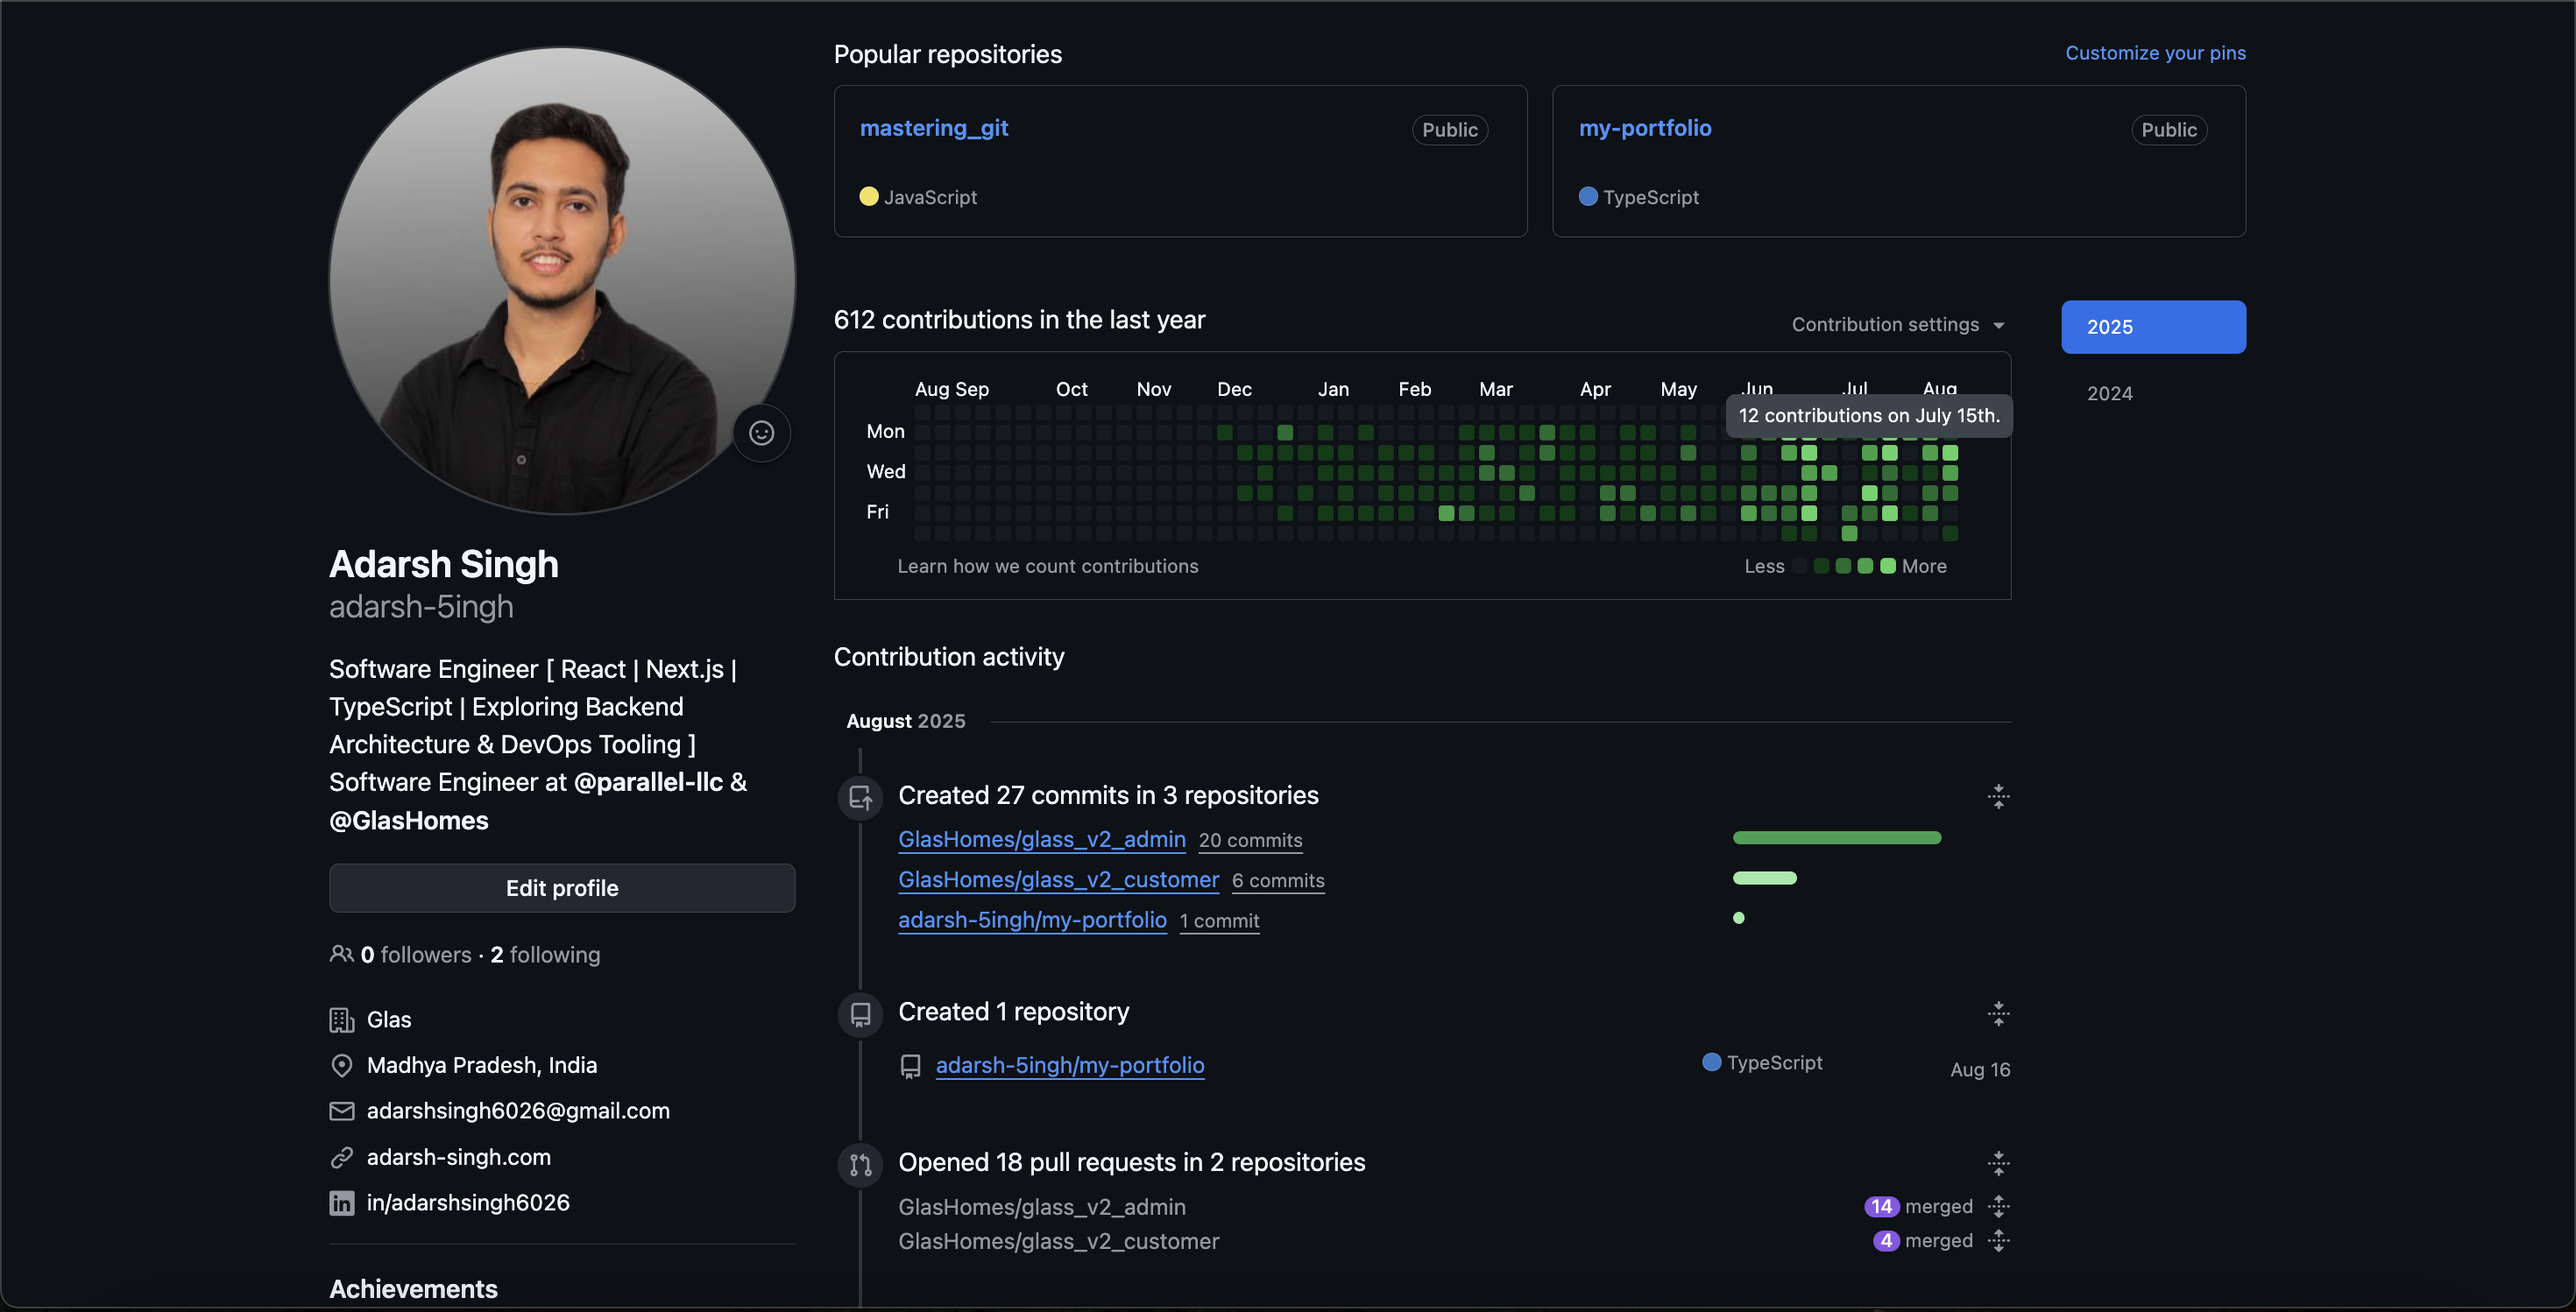
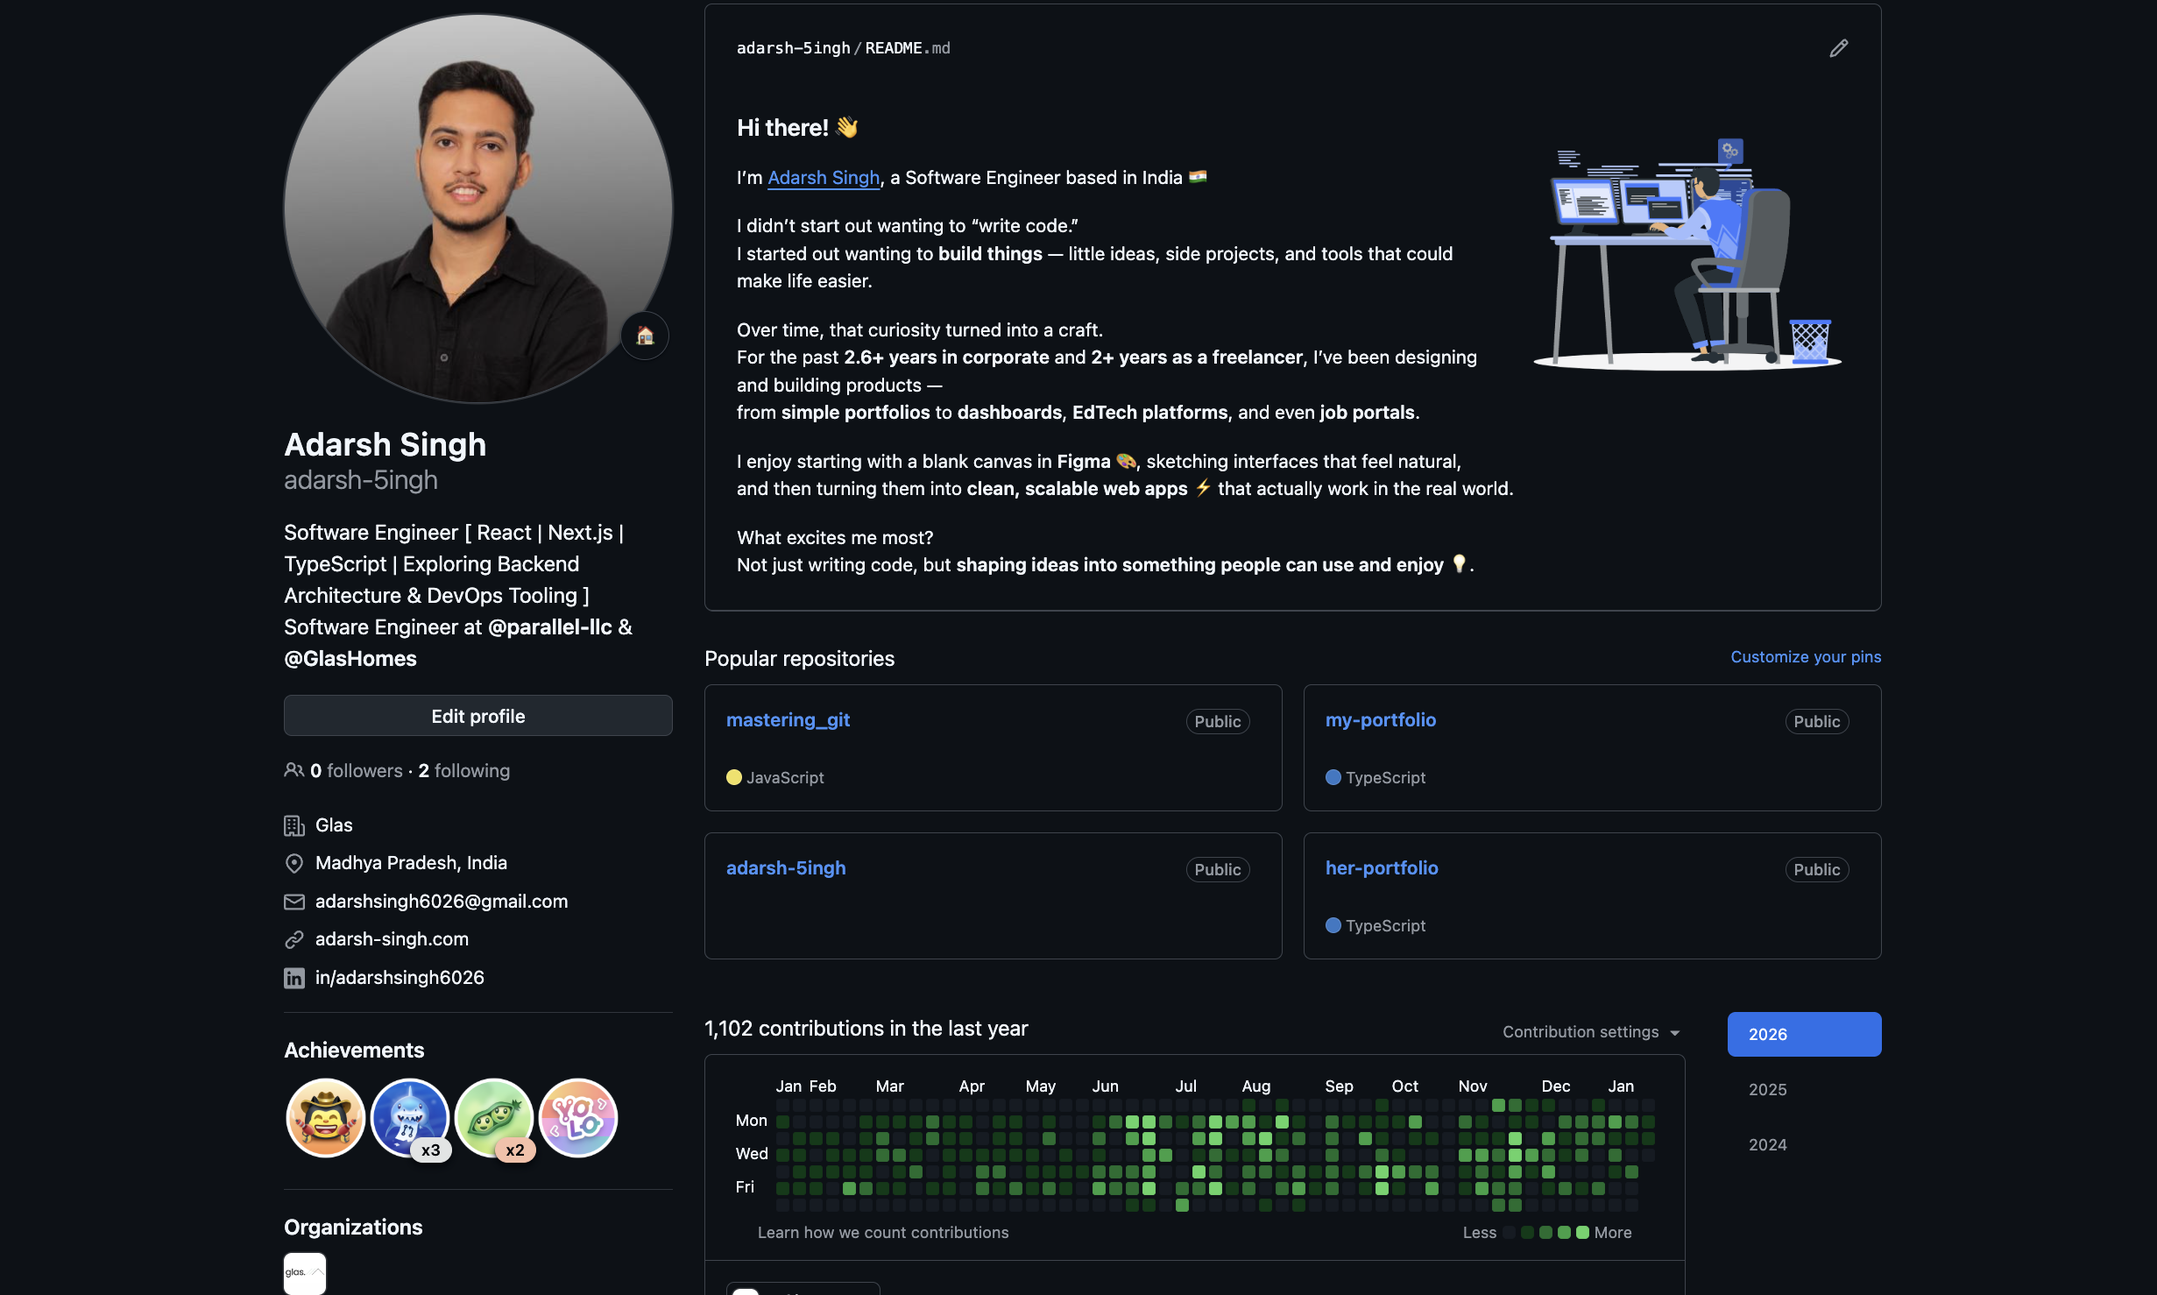
Bugs fixed

diff --git a/data/index.ts b/data/index.ts
@@ -165,9 +165,9 @@ export const navItems = [
       title: "Software Engineer",
       company: "Glas",
       time: "Dec 2024 - Present",
-      desc: "Next JS, TypeScript, Rect JS, GraphQL, Redux, AWS",
+      desc: "Next JS, TypeScript, Rect JS, Node JS, Express JS, Go, GraphQL, Redux, AWS",
       className: "md:col-span-2",
-      thumbnail: "https://media.licdn.com/dms/image/v2/D560BAQFKbsUE7w8V3g/company-logo_200_200/company-logo_200_200/0/1737826806711/glashomes_logo?e=1758153600&v=beta&t=uPS1VOl3b0qTCSd-48BRkeOKT85mMu_jzAnFhYiCJHM",
+      thumbnail: "/glashomes_logo.jpeg",
     },
 
     {
@@ -186,7 +186,7 @@ export const navItems = [
       time: "Jan 2023 - Jun 2023",
       desc: "React JS, Next JS, Jira, Figma, Tailwind, Bootstrap, MUI, HTML, CSS, Javascript",
       className: "md:col-span-2", // change to md:col-span-2
-      thumbnail: "https://media.licdn.com/dms/image/v2/C4D0BAQHIUtedkOSezQ/company-logo_200_200/company-logo_200_200/0/1672721826001/thedevstudio_logo?e=1758153600&v=beta&t=z_14glu_aPC4CIygsOGSfbZvUPv3NvXyUbEzjLfx-No",
+      thumbnail: "/thedevstudio_logo.jpeg",
     },
     // {
     //   id: 4,

diff --git a/components/ui/BentoGrid.tsx b/components/ui/BentoGrid.tsx
@@ -8,7 +8,7 @@ const BackgroundGradientAnimation = dynamic(
   { ssr: false }
 );
 
-const Lottie = dynamic(() => import("react-lottie"), { ssr: false });
+const Lottie = dynamic(() => import("lottie-react"), { ssr: false });
 
 import { GlobeDemo } from "./GridGlobe";
 import { useState } from "react";
@@ -150,14 +150,9 @@ export const BentoGridItem = ({
             <div className="mt-5 relative">
               <div className={`absolute -bottom-5 right-0`}>
                 <Lottie
-                  options={{
-                    loop: copied,
-                    autoplay: copied,
-                    animationData,
-                    rendererSettings: {
-                      preserveAspectRatio: "xMidYMid slice",
-                    },
-                  }}
+                  animationData={animationData}
+                  loop={copied}
+                  autoplay={copied}
                 />
               </div>
 

diff --git a/components/RecentProjects.tsx b/components/RecentProjects.tsx
@@ -83,7 +83,7 @@ const RecentProjects = () => {
         //     To see all my latest work, code samples, and contributions <br /> <a className="text-purple underline" target="_blank" href="https://github.com/adarsh-5ingh">Visit my GitHub profile</a>,
         //   </span>
         // }
-        src={`/github1.png`}
+        src={`/github.png`}
         showGradient={false}
       />
     </div>

diff --git a/components/Footer.tsx b/components/Footer.tsx
@@ -27,7 +27,7 @@ const Footer = () => {
       </div>
       <div className="flex mt-16 md:flex-row flex-col justify-between items-center">
         <p className="md:text-base text-sm md:font-normal font-light mb-2">
-          Copyright © 2025 Adarsh Singh
+          Copyright © 2026 Adarsh Singh
         </p>
 
         <div className="flex items-center md:gap-3 gap-6">

diff --git a/components/Hero.tsx b/components/Hero.tsx
@@ -50,7 +50,7 @@ const Hero = () => {
             I&apos;m very passionate about the work that I do.
           </p>
 
-          <a href="#projects">
+          <a href="#projects" className="z-10">
             <MagicButton
               title="Show my work"
               icon={<FaLocationArrow />}
